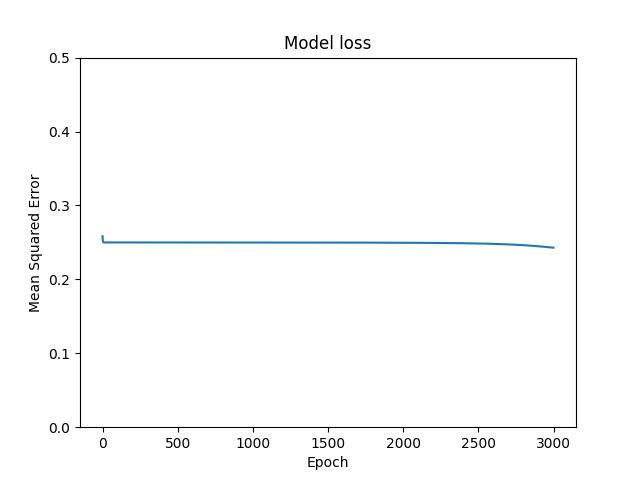
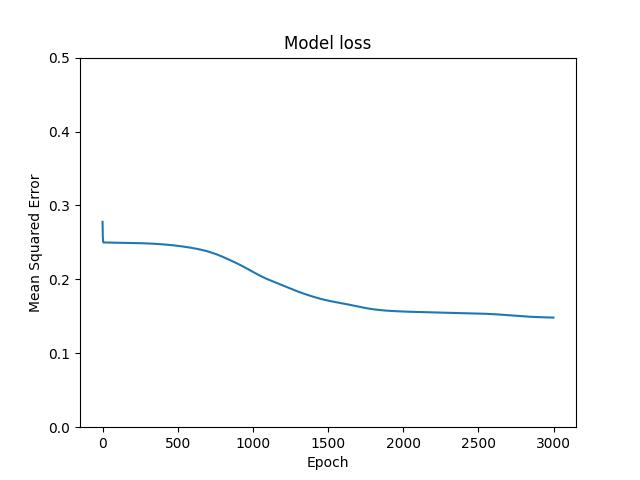
Fixed everything

diff --git a/src/assignment1.py b/src/assignment1.py
@@ -70,14 +70,13 @@ class Neural_Network:
 
     def gradient_descent(self, total_change_bias, total_change_weights, bias_old, weights_old, batch_size, reg_const, rho):
         
-
         for i in range(self.amount_layers - 1):
             if weights_old == 0:
                 self.Weights[i] = self.Weights[i] - (reg_const/batch_size) * total_change_weights[i]                
                 self.Bias[i] = self.Bias[i] - (reg_const/batch_size) * total_change_bias[i]
             else:
-                self.Weights[i] = self.Weights[i] - ((reg_const/batch_size) * total_change_weights[i] + rho * weights_old[i])
-                self.Bias[i] = self.Bias[i] - ((reg_const/batch_size) * total_change_bias[i] + rho * bias_old[i])
+                self.Weights[i] = self.Weights[i] - (reg_const/batch_size) * total_change_weights[i] - rho * ((reg_const/batch_size) *weights_old[i])
+                self.Bias[i] = self.Bias[i] - (reg_const/batch_size) * total_change_bias[i] - rho * ((reg_const/batch_size) *bias_old[i]) 
 
 
     def test_network(self, data):
@@ -247,12 +246,11 @@ def sigmoidderivative(vector):
 
 
 def keras_learning(data, input_size, output_size, hidden_layers, Batch_Size, Epochs, optimizer):
-    optimizer = SGD(learning_rate=0.8, momentum=0)
     model = Sequential()
-    model.add(Dense(input_size[0], activation='sigmoid', kernel_initializer=tf.keras.initializers.RandomUniform(minval=-1.00, maxval=1.00, seed = None)))
+    model.add(Dense(input_size[0], activation='sigmoid', kernel_initializer=tf.keras.initializers.RandomUniform(minval=-1.00, maxval=1.00)))
     for i in range(len(hidden_layers)):
-        model.add(Dense(hidden_layers[i], activation='sigmoid', kernel_initializer = tf.keras.initializers.RandomUniform(minval=-1.00, maxval=1.00, seed = None)))
-    model.add(Dense(output_size[0], activation='sigmoid', kernel_initializer = tf.keras.initializers.RandomUniform(minval=-1.00, maxval=1.00, seed = None)))
+        model.add(Dense(hidden_layers[i], activation='sigmoid', kernel_initializer=tf.keras.initializers.RandomUniform(minval=-1.00, maxval=1.00)))
+    model.add(Dense(output_size[0], activation='sigmoid', kernel_initializer=tf.keras.initializers.RandomUniform(minval=-1.00, maxval=1.00)))
 
     model.compile(loss='mse', optimizer=optimizer, metrics=['accuracy'])
 
@@ -274,9 +272,6 @@ def split_data(data, factor):
 
 
 def main():
-    #Call functions here
-    #random.seed(8)
-
     ###Data and variables
     data = load_data()
     make_graphs(data[0], data[1])
@@ -284,7 +279,7 @@ def main():
     ###Adapt the layers to change the shape of the neural network###
     input_size = [2]
     output_size = [1]
-    hidden_layers = [6, 6]
+    hidden_layers = [10]
     Iteration_Epochs = 3000
 
     #10 times model run with crossvalidation###
@@ -293,7 +288,7 @@ def main():
     kerasloss = np.zeros(Iteration_Epochs)
     kerasaccuracy = np.zeros(Iteration_Epochs)
 
-    runs = 3
+    runs = 10
     overall_NN_test_acc = []
     overall_keras_test_acc = []
     overall_NN_time = []
@@ -343,20 +338,22 @@ def main():
 
 
     ##Gridsearch###
-    # data_train, data_test = split_data(data, 0.8)
-    # Batch_Size = len(data_train[0])
+    data_train, data_test = split_data(data, 0.8)
+    Batch_Size = len(data_train[0])
 
-    # input_size = [2]
-    # output_size = [1]
-    # Iteration_Epochs = 3000
+    input_size = [2]
+    output_size = [1]
+    Iteration_Epochs = 3000
 
-    # hidden_layerss = [[6],[10],[4,4],[6,6], [3,3,3]]
-    # SGDs = [SGD(learning_rate=0.8, momentum=0.2), SGD(learning_rate=0.9, momentum=0.2), SGD(learning_rate=1, momentum=0.2), SGD(learning_rate=2, momentum=0.2)]
-    # for hidden_layers in hidden_layerss:
-    #     for optimizer in SGDs:
-    #         history, model = keras_learning(data_train, input_size, output_size, hidden_layers, Batch_Size, Iteration_Epochs, optimizer = optimizer)
-    #         testhistory = model.evaluate(data_test[0], data_test[1], verbose = 0)
-    #         print(hidden_layers, optimizer.learning_rate, testhistory)
+    hidden_layerss = [[6],[10],[4,4],[6,6], [3,3,3]]
+    SGDs = [SGD(learning_rate=0.8, momentum=0.2), SGD(learning_rate=0.9, momentum=0.2), SGD(learning_rate=1, momentum=0.2), SGD(learning_rate=2, momentum=0.2)]
+    for hidden_layers in hidden_layerss:
+        for optimizer in SGDs:
+            history, model = keras_learning(data_train, input_size, output_size, hidden_layers, Batch_Size, Iteration_Epochs, optimizer = optimizer)
+            testhistory = model.evaluate(data_test[0], data_test[1], verbose = 0)
+            print(hidden_layers, optimizer.learning_rate, testhistory)
+
+    
 
 
     
